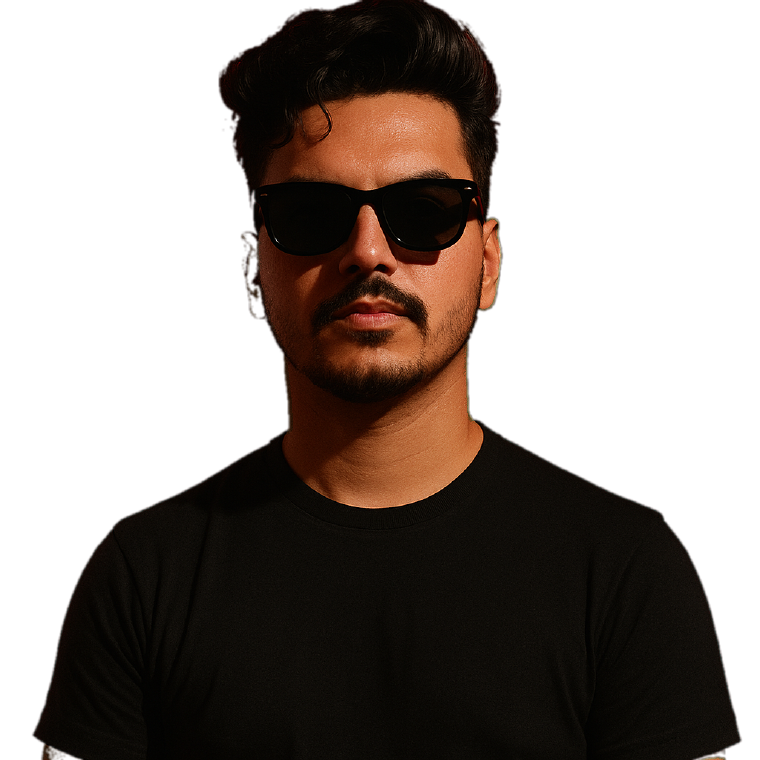
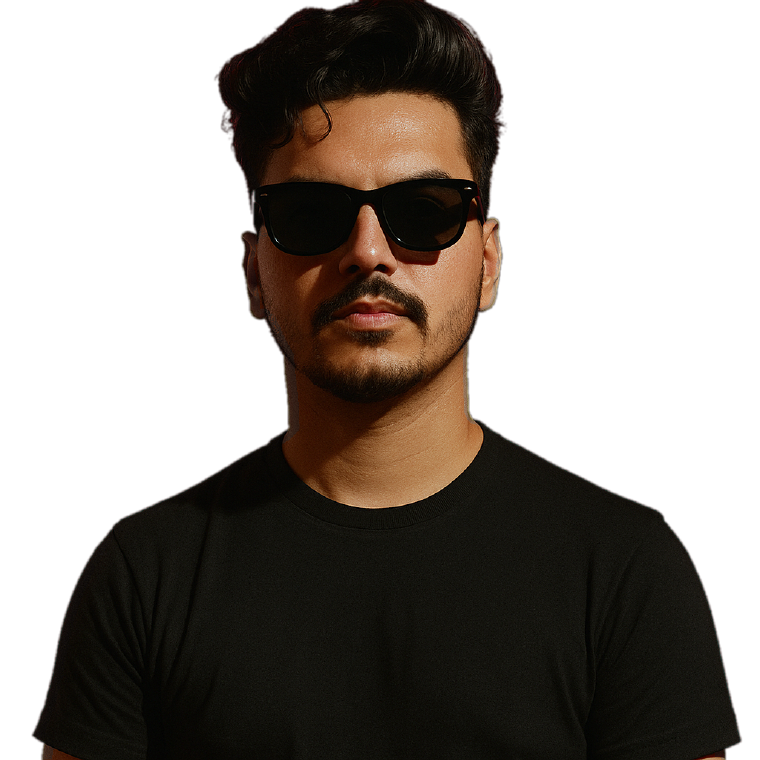
Apply sky-blue accent across portfolio
Update the design tokens and shared component accents to use sky blue, refresh the profile cutout, and remove the hero's open-to-work badge.

diff --git a/src/components/Hero.tsx b/src/components/Hero.tsx
@@ -24,7 +24,7 @@ const Hero = () => {
               I'm {profile.name}, {profile.role}
             </span>
             <span aria-hidden>
-              I'm <Typewriter words={titles} className="text-sky-400" />
+              I'm <Typewriter words={titles} className="text-primary" />
             </span>
           </h1>
 
@@ -42,7 +42,7 @@ const Hero = () => {
                   rel="noopener noreferrer"
                   aria-label={s.label}
                   title={s.label}
-                  className="flex h-10 w-10 items-center justify-center rounded-full border border-sky-400/25 bg-sky-400/10 text-sky-400 transition-[background-color,color,transform] duration-200 hover:-translate-y-0.5 hover:bg-sky-400 hover:text-slate-950"
+                  className="flex h-10 w-10 items-center justify-center rounded-full border border-primary/25 bg-primary/10 text-primary transition-[background-color,color,transform] duration-200 hover:-translate-y-0.5 hover:bg-primary hover:text-primary-foreground"
                 >
                   <s.icon className="h-[18px] w-[18px]" />
                 </a>
@@ -54,14 +54,14 @@ const Hero = () => {
             <Link
               to="/#contact"
               onClick={(e) => scrollToSection("contact") && e.preventDefault()}
-              className="btn h-11 bg-sky-400 px-6 font-semibold text-slate-950 shadow-[0_10px_28px_-10px_theme(colors.sky.400)] hover:-translate-y-0.5 hover:bg-sky-300"
+              className="btn btn-primary h-11 px-6 font-semibold"
             >
               Hire me
             </Link>
             <a
               href={profile.resume}
               download
-              className="btn group h-11 border border-sky-400/60 px-6 text-sky-400 hover:-translate-y-0.5 hover:bg-sky-400/10"
+              className="btn group h-11 border border-primary/60 px-6 text-primary hover:-translate-y-0.5 hover:bg-primary/10"
             >
               <Download className="h-4 w-4 transition-transform group-hover:translate-y-0.5" />
               Download CV
@@ -71,7 +71,7 @@ const Hero = () => {
 
         {/* Cut-out portrait standing on the bottom edge, with a soft glow behind it */}
         <div className="relative mx-auto w-full max-w-[440px] animate-fade-up self-end [animation-delay:200ms] lg:max-w-none">
-          <div className="absolute bottom-[12%] left-1/2 h-1/2 w-2/3 -translate-x-1/2 rounded-full bg-sky-400/20 blur-3xl" aria-hidden />
+          <div className="absolute bottom-[12%] left-1/2 h-1/2 w-2/3 -translate-x-1/2 rounded-full bg-primary/20 blur-3xl" aria-hidden />
           <img
             src="/profile-cutout.png"
             alt={`Portrait of ${profile.name}`}
@@ -79,16 +79,6 @@ const Hero = () => {
             height={760}
             className="relative mx-auto w-full [mask-image:linear-gradient(to_bottom,black_78%,transparent)] lg:max-h-[88svh] lg:w-auto"
           />
-
-          {profile.available && (
-            <p className="absolute bottom-[14%] left-0 inline-flex items-center gap-2 rounded-full border border-border bg-card/80 px-3 py-1.5 text-xs font-medium shadow-lg backdrop-blur sm:left-[4%]">
-              <span className="relative flex h-2 w-2">
-                <span className="absolute inline-flex h-full w-full animate-ping rounded-full bg-success opacity-60" />
-                <span className="relative inline-flex h-2 w-2 rounded-full bg-success" />
-              </span>
-              Open to work
-            </p>
-          )}
         </div>
       </div>
     </section>

diff --git a/src/index.css b/src/index.css
@@ -3,9 +3,9 @@
 @tailwind utilities;
 
 /*
- * Design tokens. Dark-only and monochrome: near-black surfaces, neutral
- * greys and a near-white primary. The "brand" tokens are mid greys used where
- * a gradient needs a second stop.
+ * Design tokens. Dark-only: near-black surfaces, neutral greys and a sky-blue
+ * primary accent. The "brand" tokens are lighter sky and cyan, used where a
+ * gradient needs more stops.
  * All colors are HSL triplets consumed by Tailwind.
  */
 @layer base {
@@ -21,11 +21,11 @@
     --popover: 240 5% 8%;
     --popover-foreground: 0 0% 96%;
 
-    --primary: 0 0% 96%;
-    --primary-foreground: 240 6% 8%;
+    --primary: 198 93% 60%;
+    --primary-foreground: 229 84% 5%;
 
-    --brand-violet: 240 5% 72%;
-    --brand-cyan: 240 4% 60%;
+    --brand-violet: 199 95% 74%;
+    --brand-cyan: 188 86% 53%;
 
     --secondary: 240 4% 13%;
     --secondary-foreground: 0 0% 96%;
@@ -43,7 +43,7 @@
 
     --border: 240 4% 17%;
     --input: 240 4% 22%;
-    --ring: 240 5% 70%;
+    --ring: 198 93% 60%;
 
     --radius: 0.75rem;
   }
@@ -163,7 +163,7 @@
     @apply relative inline-flex h-10 items-center justify-center gap-2 overflow-hidden whitespace-nowrap rounded-lg px-4 text-sm font-medium transition-[background-color,color,box-shadow,transform,border-color] duration-200 active:scale-[0.98] disabled:pointer-events-none disabled:opacity-50;
   }
   .btn-primary {
-    @apply bg-primary text-primary-foreground shadow-[0_8px_20px_-8px_hsl(var(--foreground)/0.35)] hover:-translate-y-0.5 hover:bg-primary/90;
+    @apply bg-primary text-primary-foreground shadow-[0_10px_28px_-10px_hsl(var(--primary)/0.7)] hover:-translate-y-0.5 hover:bg-primary/90;
   }
   /* Light sweep across primary buttons on hover */
   .btn-primary::after {
@@ -265,7 +265,7 @@
 
   /* Blinking text cursor for <Typewriter /> */
   .caret {
-    @apply ml-1 inline-block h-[0.9em] w-[0.09em] bg-sky-400 align-[-0.08em];
+    @apply ml-1 inline-block h-[0.9em] w-[0.09em] bg-primary align-[-0.08em];
     animation: caret-blink 1s steps(1) infinite;
   }
 

diff --git a/src/components/About.tsx b/src/components/About.tsx
@@ -7,37 +7,37 @@ const focus = [
   {
     icon: Braces,
     title: "API design",
-    tone: "bg-secondary text-foreground ring-border",
+    tone: "bg-primary/10 text-primary ring-primary/25",
     text: "RESTful ASP.NET Core APIs with request validation, centralized error handling, JWT auth and role-based access.",
   },
   {
     icon: LayoutTemplate,
     title: "Angular frontends",
-    tone: "bg-secondary text-foreground ring-border",
+    tone: "bg-primary/10 text-primary ring-primary/25",
     text: "Reusable components and services, reactive forms with validation, routing with lazy loading and guards, and HTTP interceptors for JWT auth — all wired to the APIs with RxJS.",
   },
   {
     icon: MonitorSmartphone,
     title: "Responsive design",
-    tone: "bg-secondary text-foreground ring-border",
+    tone: "bg-primary/10 text-primary ring-primary/25",
     text: "Mobile-first layouts with Flexbox and CSS Grid that work on phones, tablets and desktops, with clean, accessible forms, tables and dashboards.",
   },
   {
     icon: Database,
     title: "Data modelling",
-    tone: "bg-secondary text-foreground ring-border",
+    tone: "bg-primary/10 text-primary ring-primary/25",
     text: "Relational schemas on PostgreSQL and SQL Server with EF Core, plus query tuning where load times matter.",
   },
   {
     icon: HeartPulse,
     title: "Healthcare workflows",
-    tone: "bg-secondary text-foreground ring-border",
+    tone: "bg-primary/10 text-primary ring-primary/25",
     text: "Patient lifecycle, billing and ABHA M1–M3 integrations, where record consistency and access control are non-negotiable.",
   },
   {
     icon: ScanText,
     title: "AI-assisted pipelines",
-    tone: "bg-secondary text-foreground ring-border",
+    tone: "bg-primary/10 text-primary ring-primary/25",
     text: "OCR and LLM extraction wrapped in deterministic validation, so model output never overrides source data.",
   },
 ];

diff --git a/src/components/Services.tsx b/src/components/Services.tsx
@@ -22,37 +22,37 @@ const services = [
     icon: LayoutDashboard,
     title: "Full-stack web applications",
     text: "Business apps on ASP.NET Core and Angular — dashboards, admin portals and role-based access that work on any screen.",
-    tone: "bg-secondary text-foreground ring-border",
+    tone: "bg-primary/10 text-primary ring-primary/25",
   },
   {
     icon: Server,
     title: "REST APIs & backends",
     text: "Secure, documented APIs for web and mobile clients, with validation, JWT auth and clean data models.",
-    tone: "bg-secondary text-foreground ring-border",
+    tone: "bg-primary/10 text-primary ring-primary/25",
   },
   {
     icon: HeartPulse,
     title: "Healthcare & enterprise systems",
     text: "Patient lifecycle, billing, inventory and multi-level approval workflows, including ABHA-related integrations.",
-    tone: "bg-secondary text-foreground ring-border",
+    tone: "bg-primary/10 text-primary ring-primary/25",
   },
   {
     icon: FileSearch,
     title: "AI document processing",
     text: "Turn PDFs and scanned reports into structured, validated data with OCR and LLMs — checked against the source.",
-    tone: "bg-secondary text-foreground ring-border",
+    tone: "bg-primary/10 text-primary ring-primary/25",
   },
   {
     icon: Cable,
     title: "Integrations & cloud",
     text: "AWS S3, SQS and CloudFront, SFTP bank-file workflows, payment gateways and third-party APIs.",
-    tone: "bg-secondary text-foreground ring-border",
+    tone: "bg-primary/10 text-primary ring-primary/25",
   },
   {
     icon: Gauge,
     title: "Database design & tuning",
     text: "Relational schemas on PostgreSQL and SQL Server, and query tuning where page load times matter.",
-    tone: "bg-secondary text-foreground ring-border",
+    tone: "bg-primary/10 text-primary ring-primary/25",
   },
 ];
 

diff --git a/src/lib/tones.ts b/src/lib/tones.ts
@@ -1,14 +1,14 @@
 /**
- * Accent per project. The UI is monochrome, so every project shares one neutral tone;
+ * Accent per project. Every project shares the sky-blue primary accent;
  * kept as a lookup so a project can still be given its own accent later.
  * Class names are written out in full so Tailwind can find them.
  */
 export type Tone = { tile: string; bar: string; dot: string };
 
-const neutral: Tone = {
-  tile: "bg-secondary text-foreground ring-border",
-  bar: "from-foreground/80 to-muted-foreground/60",
-  dot: "bg-foreground/70",
+const accent: Tone = {
+  tile: "bg-primary/10 text-primary ring-primary/25",
+  bar: "from-primary to-brand-cyan",
+  dot: "bg-primary",
 };
 
-export const toneFor = (_slug: string): Tone => neutral;
+export const toneFor = (_slug: string): Tone => accent;
